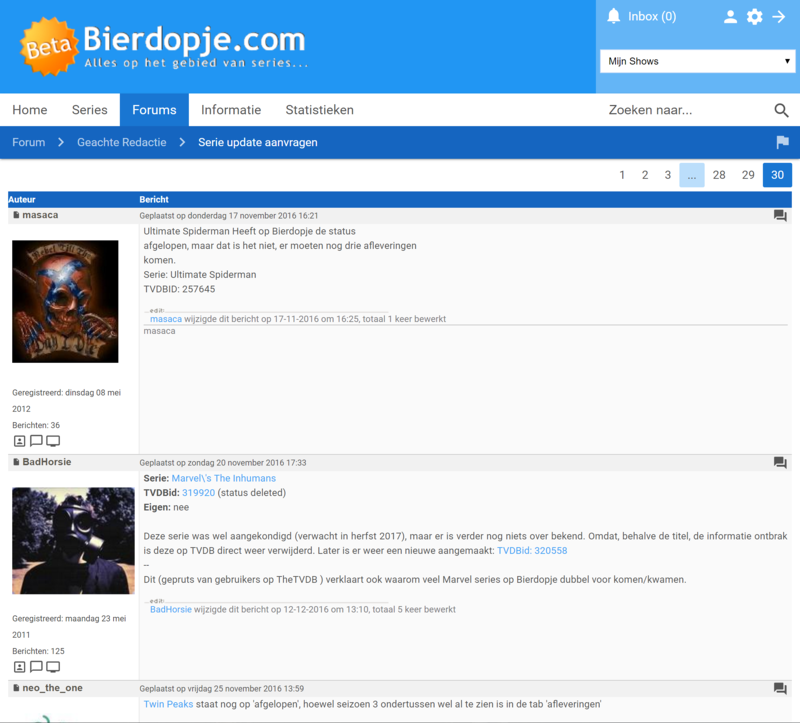
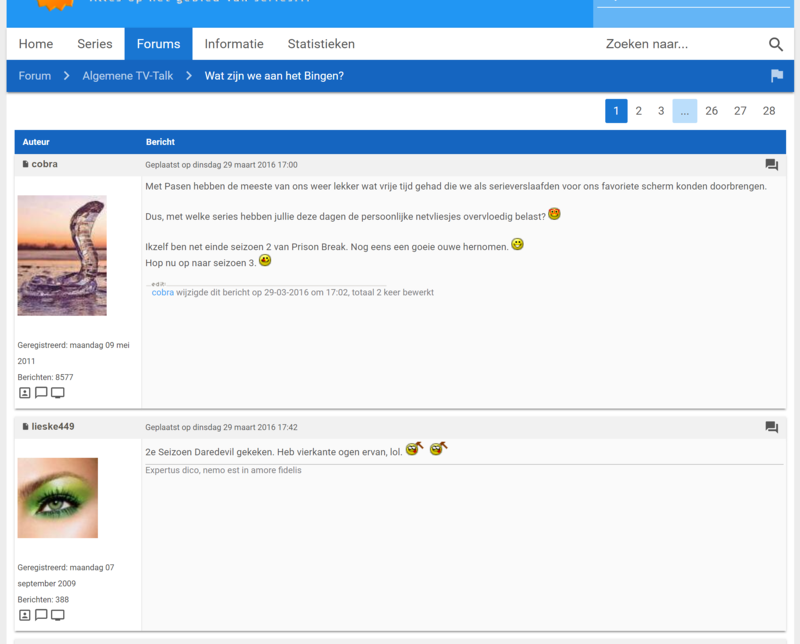
Styling for forum and newsreplies + screenshots.

diff --git a/old/bierdopje-material-v0.96.1.css b/old/bierdopje-material-v0.96.1.css
@@ -1,7 +1,7 @@
 @-moz-document domain("bierdopje.com"), domain("bierdopje.eu") {
 /*
 Developed by: Tom
-Version 0.97
+Version 0.96.1
 
 Special thanks:
 Google (https://material.google.com/)
@@ -1069,24 +1069,6 @@ h3.forumHeader {
 }
 
 /* forum */
-table.forumline tr td {
-    padding: 4px;
-}
-
-table.forumline tr td.catHead {
-    padding: 0 !important;
-}
-
-table.forumline tr:nth-child(3n+3),
-table.forumline tr:nth-child(3n+4) {
-    box-shadow: 0 2px 2px 0 rgba(0,0,0,0.14), 0 1px 5px 0 rgba(0,0,0,0.12), 0 3px 1px -2px rgba(0,0,0,0.2);
-}
-
-table.forumline tr[id="replyspacer-end name="],
-table.forumline tr:last-child {
-    box-shadow: 0 0 0 0;
-}
-
 table.forumline tr[id^="replyheader"] td:first-child a {
     position: relative;
     left: 5px;
@@ -1117,14 +1099,6 @@ table.forumline .postname + img {
 	position: relative;
     top: 3px;
     left: 5px;
-}
-
-table.forumline tr[name="replyspacer"] {
-    height: 10px;
-}
-
-table.forumline .spaceRow {
-    background-color: transparent;
 }
 
 /* replybox */
@@ -1557,11 +1531,6 @@ img[id^=seen] {
 
 th.forumkop {
 	background: transparent;
-	padding: 5px;
-}
-
-th.forumkop.thLeft {
-    padding: 5px 10px;
 }
 
 /* tags */

diff --git a/README.md b/README.md
@@ -1,11 +1,14 @@
 # Bierdopje Material
 A makeover for Bierdopje.com using Google's Material Design<br/>
-v0.96.1
+v0.97
 
 <a href="https://userstyles.org/styles/136283/bierdopje-material">Install via userstyles.com</a> (Using Stylish)
 
-# Screenshot
+# Screenshots
 <a href="https://github.com/Bierdopje-Community/bierdopje-material/blob/master/screenshots/frontpage.jpeg?raw=true"><img src="https://github.com/Bierdopje-Community/bierdopje-material/blob/master/screenshots/frontpage.jpeg?raw=true" width="300px" /></a>
+<a href="https://github.com/Bierdopje-Community/bierdopje-material/blob/master/screenshots/forum.png?raw=true"><img src="https://github.com/Bierdopje-Community/bierdopje-material/blob/master/screenshots/forum_thumb.png?raw=true" width="300px" /></a>
+<a href="https://github.com/Bierdopje-Community/bierdopje-material/blob/master/screenshots/series.png?raw=true"><img src="https://github.com/Bierdopje-Community/bierdopje-material/blob/master/screenshots/series_thumb.png?raw=true" width="300px" /></a>
+<a href="https://github.com/Bierdopje-Community/bierdopje-material/blob/master/screenshots/series-overview.png?raw=true"><img src="https://github.com/Bierdopje-Community/bierdopje-material/blob/master/screenshots/series-overview_thumb.png?raw=true" width="300px" /></a>
 
 # Install the Stylish extension
 - <a href="https://chrome.google.com/webstore/detail/stylish/fjnbnpbmkenffdnngjfgmeleoegfcffe">Stylish for Chrome</a>
